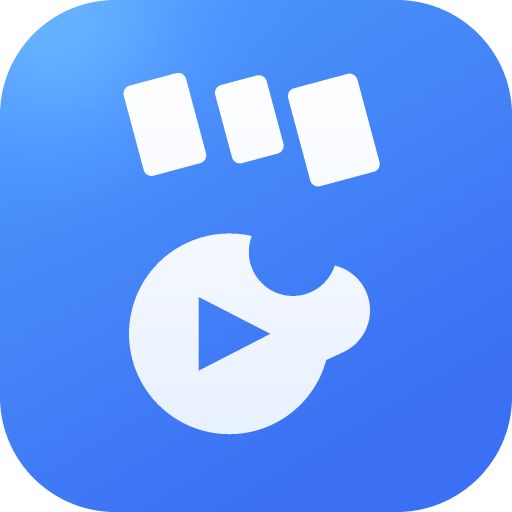
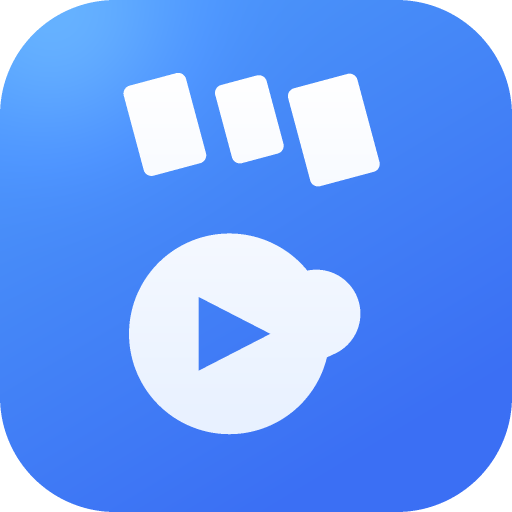
feat(0.0.2): 图标改为飞牛影视同款蓝色并补上缺口

Changed region(s): [[0.4688, 0.4688, 0.75, 0.6875], [0.625, 0.6875, 0.6562, 0.7188]]

diff --git a/README.md b/README.md
@@ -2,7 +2,7 @@
 
 飞牛影视（trim.media）在线资源扩展的**管理端**。零侵入、可逆地接管官方影视入口，在原生搜索与媒体库中注入在线影视，并用飞牛自带播放器直接播放。
 
-- **版本**：0.0.1
+- **版本**：0.0.2
 - **作者**：haonanren118
 - **应用标识**：`fnmedia-mgmt`
 
@@ -36,7 +36,7 @@
 命令行安装（需 root）：
 
 ```bash
-sudo appcenter-cli install-fpk fnmedia-mgmt-0.0.1.fpk -v 1 -e ./env.txt
+sudo appcenter-cli install-fpk fnmedia-mgmt-0.0.2.fpk -v 1 -e ./env.txt
 # env.txt 内容：wizard_agree_terms=agree
 ```
 

diff --git a/CHANGELOG.md b/CHANGELOG.md
@@ -1,5 +1,9 @@
 # 更新日志
 
+## 0.0.2 — 2026-11-01
+
+- **更换应用图标**：改为飞牛影视同款蓝色（#4E9CFB → #3B6FF4 渐变圆角方底 + 白色胶片斜纹 + 白色圆底播放键），白色形体完整无缺口。
+
 ## 0.0.1 — 2026-11-01
 
 首个版本。基于上游 yujian0815/fnmedia-ext 0.2.55（lite）二次开发。
